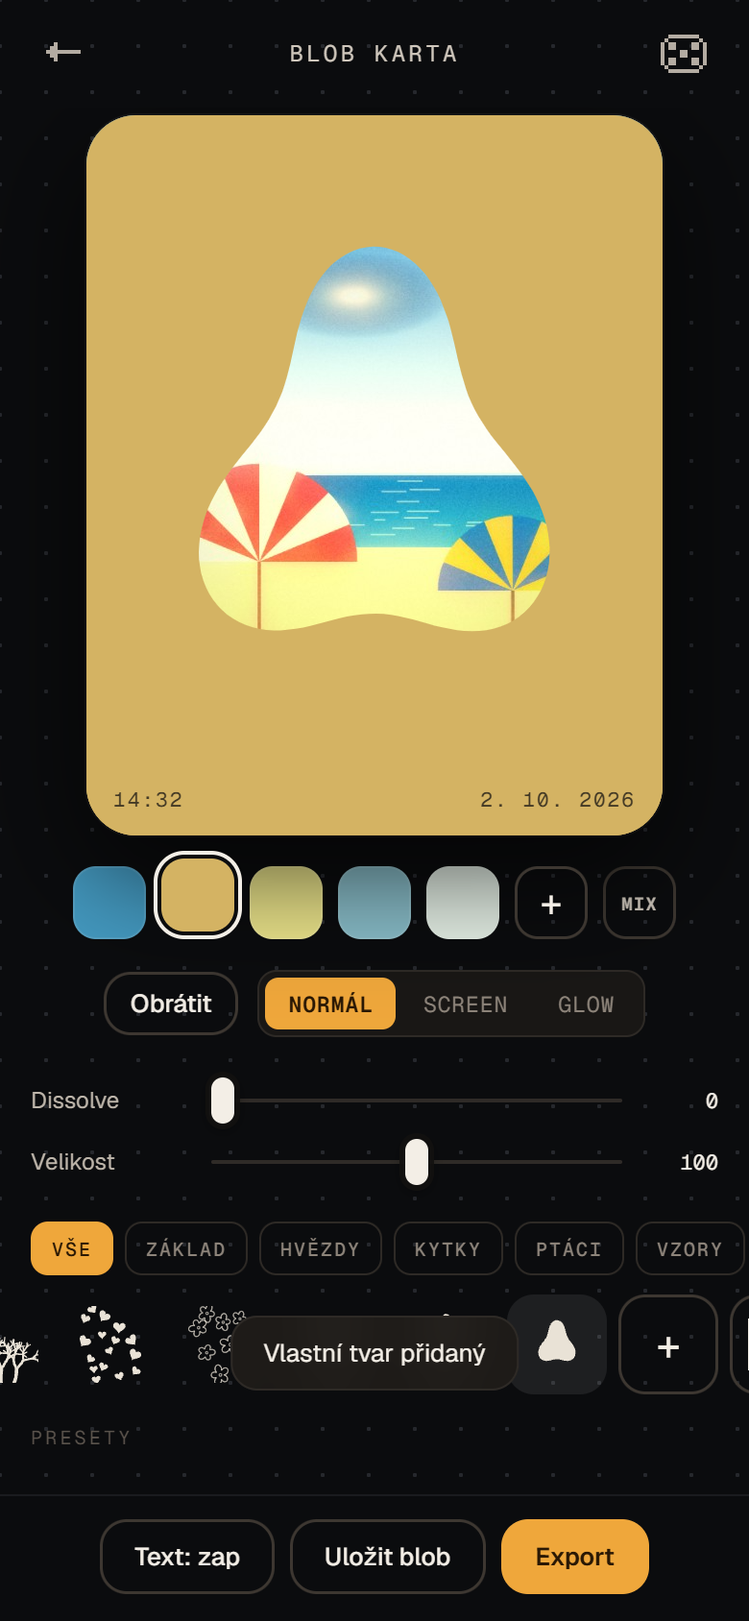
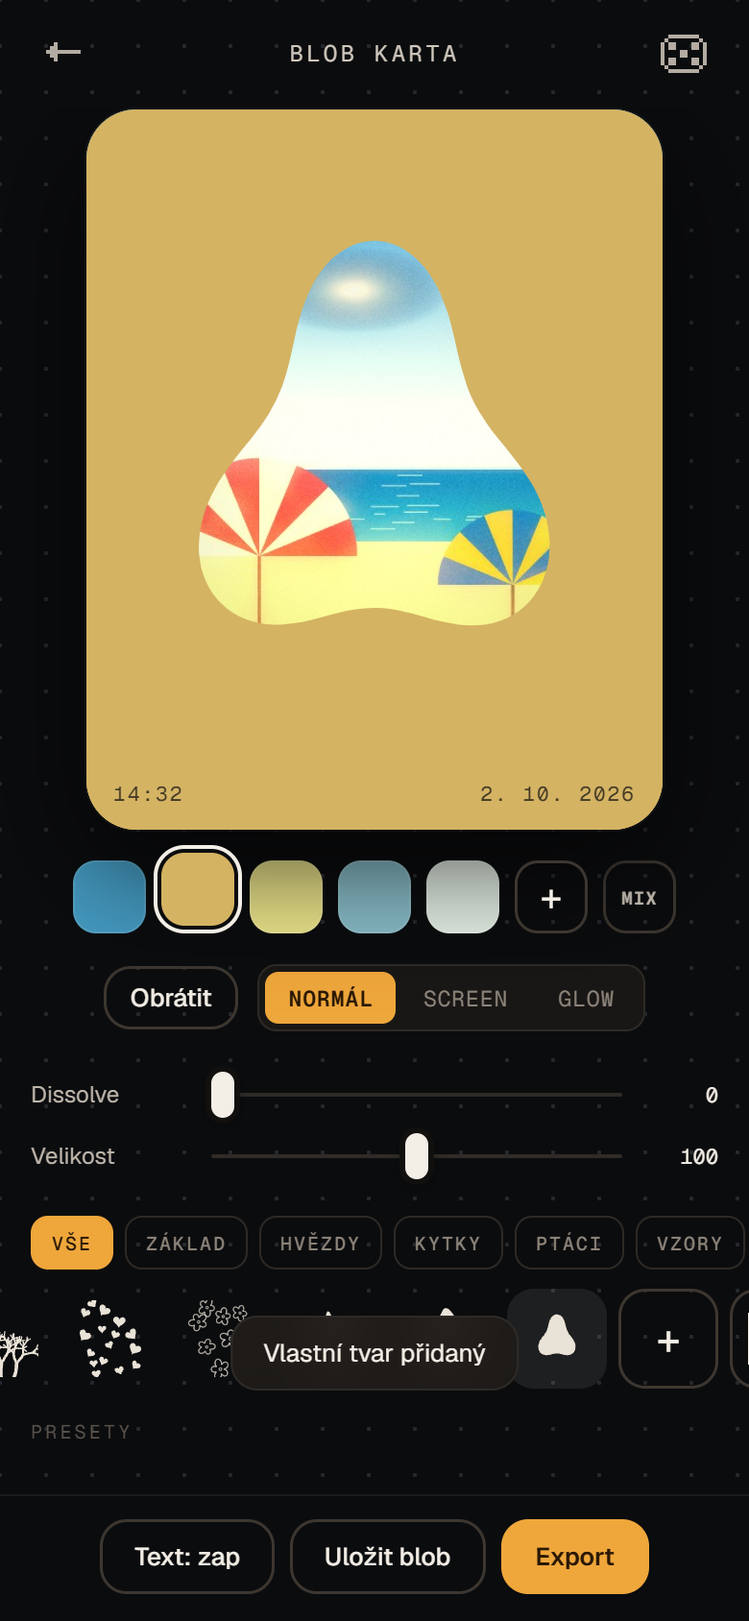
Blob: předělané vázy z 12, tulipány, kytice, orchidej, přehrávač, vykřičníky, špendlík (víc kreslené)

diff --git a/docs/preview/index.html b/docs/preview/index.html
@@ -3169,15 +3169,15 @@ async function shareRecipe(r) {
 const SHAPES = [{ k: 'splat', s: 3 }, { k: 'blob', n: 5, a: .2, s: 9 }, { k: 'star', s: 2 }, { k: 'sparkle', s: 4 }, { k: 'flower', s: 5 }, { k: 'stamp' }, { k: 'soft' },
   { k: 'stars', s: 11 }, { k: 'dots', s: 12 }, { k: 'flowers', s: 13 }, { k: 'sparkles', s: 14 }, { k: 'waves', s: 15 },
   { k: 'shoot', s: 21 }, { k: 'chain', s: 22 }, { k: 'beacons', s: 23 }, { k: 'stars3', s: 24 }, { k: 'snake', s: 25 }, { k: 'daisygrid', s: 26 }, { k: 'halfdaisy', s: 27 }, { k: 'outlineflowers', s: 28 }, { k: 'daisyfield', s: 29 }, { k: 'loops', s: 30 },
-  { k: 'flock', s: 41 }, { k: 'gulls', s: 42 }, { k: 'birds', s: 43 }, { k: 'birdcloud', s: 44 }, { k: 'swallows', s: 45 }, { k: 'wires', s: 46 }, { k: 'onebird', s: 47 },
+  { k: 'flock', s: 41 }, { k: 'gulls', s: 42 }, { k: 'birds', s: 43 }, { k: 'birdcloud', s: 44 }, { k: 'swallows', s: 45 }, { k: 'wires', s: 46 }, { k: 'pin', s: 47 },
   { k: 'orchid', s: 48 }, { k: 'stems', s: 49 }, { k: 'poppies', s: 50 }, { k: 'tulips', s: 51 }, { k: 'bouquet', s: 52 },
-  { k: 'vase', v: 'jar', f: 'balls', s: 53 }, { k: 'vase', v: 'bottle', f: 'balls2', s: 54 }, { k: 'vase', v: 'slim', f: 'balls3', s: 55 },
+  { k: 'vase', v: 'jar', f: 'balls', s: 53, sc: .62 }, { k: 'vase', v: 'bottle', f: 'balls2', s: 54, sc: .78 }, { k: 'vase', v: 'slim', f: 'balls3', s: 55, sc: .7 },
   { k: 'vase', v: 'slim', f: 'puff', s: 56 }, { k: 'vase', v: 'bottle', f: 'sprigs', s: 57 }, { k: 'vase', v: 'round', f: 'berries', s: 58 }, { k: 'vase', v: 'carafe', f: 'hydra', s: 59 }, { k: 'vase', v: 'slim', f: 'spike', s: 60 },
   { k: 'constellation', s: 61 }, { k: 'figures', s: 62 }, { k: 'player', s: 63 }, { k: 'bang', s: 64 }, { k: 'bolts', s: 65 },
   { k: 'bigstars', s: 31 }, { k: 'lattice', s: 32 }, { k: 'clouds', s: 33 }, { k: 'leaf', s: 34 }, { k: 'rays', s: 35 }, { k: 'blossoms', s: 36 }, { k: 'spiral', s: 37 }, { k: 'coral', s: 38 }, { k: 'hearts', s: 39 }, { k: 'blobstars', s: 40 },
   { k: 'blob', n: 7, a: .28, s: 1 }, { k: 'blob', n: 3, a: .3, s: 12 }];
 /* rozpracované tvary (Honza chce předělat) – v nabídce zatím schované */
-const WIP = new Set(['orchid', 'tulips', 'bouquet', 'onebird', 'player', 'bang', 'vase:balls', 'vase:balls2', 'vase:balls3']);
+const WIP = new Set([]);
 for (let i = SHAPES.length - 1; i >= 0; i--) { const sh = SHAPES[i]; if (WIP.has(sh.k) || WIP.has(sh.k + ':' + sh.f)) SHAPES.splice(i, 1); }
 const f2 = v => v.toFixed(2);
 function smoothClosed(pts, t = .18) { const N = pts.length; let d = `M${f2(pts[0][0])} ${f2(pts[0][1])}`;
@@ -3220,6 +3220,8 @@ function ink(pts, w, seed, o = {}) { const r = rng(seed * 7919 + 13), raw = crPt
     const wob = (Math.sin(d * fr[0] + ph[0]) * .7 + Math.sin(d * fr[1] + ph[1]) * .3) * jit, u = d / Lt, end = Math.min(1, Math.min(u, 1 - u) * Lt / (w * 3)), hw = w / 2 * (.82 + .3 * Math.sin(d * fr[2] + ph[2])) * (1 - tap + tap * Math.sqrt(Math.max(.05, end)));
     Lp.push([x + nx * (wob + hw), y + ny * (wob + hw)]); Rp.push([x + nx * (wob - hw), y + ny * (wob - hw)]); });
   const pt = q => `${f2(q[0])} ${f2(q[1])}`; return `M${Lp.map(pt).join('L')}L${Rp.reverse().map(pt).join('L')}Z`; }
+/* kreslený tvar: body polygonu se lehce rozhodí a zaoblí (cartoon, ne geometrie) */
+function wob(pts, seed, a = .6, t = .14) { const r = rng(seed * 53 + 1); return smoothClosed(pts.map(([x, y]) => [x + (r() - .5) * a, y + (r() - .5) * a]), t); }
 /* nepravidelné kolečko / skvrna od ruky */
 function wcirc(x, y, R, seed, a = .07) { const r = rng(seed * 31 + 7), p = [r() * 9, r() * 9], pts = []; for (let i = 0; i < 18; i++) { const t = i / 18 * Math.PI * 2, k = 1 + (Math.sin(t * 2 + p[0]) * .6 + Math.sin(t * 3 + p[1]) * .4) * a; pts.push([x + Math.cos(t) * R * k, y + Math.sin(t) * R * k * (1 - a * .5)]); } return smoothClosed(pts, .17); }
 const FIG_D = 'M3284 5101 c8 -12 -31 -44 -44 -36 -7 4 -10 1 -9 -6 1 -8 -6 -32 -15 -53 -10 -21 -14 -42 -9 -45 10 -8 10 -42 0 -59 -5 -7 -4 -34 2 -60 12 -51 9 -127 -8 -182 -6 -19 -11 -52 -11 -73 0 -57 -50 -127 -88 -124 -21 1 -32 17 -12 17 6 0 10 5 10 10 0 6 -7 10 -15 10 -24 0 -17 15 13 26 27 11 27 11 -10 11 -21 1 -38 -3 -38 -8 0 -5 -7 -9 -15 -9 -8 0 -36 -13 -61 -28 -28 -18 -55 -27 -72 -25 -82 10 -110 18 -136 40 -23 19 -37 23 -59 19 -16 -3 -33 -6 -37 -6 -5 0 -12 -15 -15 -32 -4 -18 -13 -37 -19 -41 -8 -6 -8 -10 1 -13 7 -3 29 -17 50 -32 30 -20 51 -26 96 -27 31 -1 57 2 57 5 0 4 6 7 13 8 6 0 38 4 70 8 49 6 62 4 85 -13 15 -11 37 -23 48 -27 11 -3 30 -23 42 -44 11 -20 29 -46 40 -58 11 -11 31 -39 45 -61 25 -40 26 -46 22 -156 -3 -63 -9 -127 -15 -142 -14 -38 -12 -81 5 -95 8 -7 12 -16 9 -21 -3 -5 2 -9 10 -9 17 0 46 26 47 43 0 7 2 31 3 55 2 23 8 48 14 54 17 17 15 83 -3 118 -9 18 -11 31 -5 35 5 3 8 23 5 43 -4 28 1 46 20 74 14 21 30 38 35 38 19 0 48 41 42 62 -4 18 -3 19 17 9 15 -8 21 -9 21 -1 0 6 5 8 10 5 6 -3 10 -3 10 2 0 4 12 22 26 38 22 25 25 26 20 8 -7 -22 0 -26 79 -38 17 -3 44 -7 62 -10 17 -3 34 -1 38 5 3 6 11 8 16 4 5 -3 31 -7 57 -9 26 -2 63 -7 82 -10 32 -6 37 -4 48 19 10 23 8 28 -25 55 -43 35 -97 51 -138 39 -16 -5 -51 -7 -77 -4 -28 3 -48 1 -48 -5 0 -5 -18 0 -40 11 -23 11 -59 20 -86 20 -35 0 -45 3 -41 14 3 8 -3 23 -14 34 -10 12 -19 25 -19 30 0 5 -7 15 -15 22 -8 7 -15 22 -15 34 0 12 -8 31 -18 42 -10 11 -19 26 -19 34 -1 8 -5 44 -9 79 -5 44 -4 62 3 58 7 -4 11 14 11 53 0 36 7 74 17 96 9 19 14 42 11 50 -3 9 -1 12 4 9 25 -15 -5 81 -34 110 -16 16 -30 20 -22 6z m-267 -681 c-19 -27 -27 -15 -14 20 9 24 13 27 20 15 5 -9 3 -23 -6 -35z m283 -89 c0 -13 -7 -18 -24 -18 -22 0 -23 1 -8 18 9 11 20 19 24 19 5 0 8 -8 8 -19z m-90 -76 c-7 -8 -17 -15 -22 -15 -5 0 -2 7 6 16 9 8 16 21 17 27 0 8 2 8 6 -1 3 -7 -1 -19 -7 -27z M1794 3800 c-9 -22 -20 -40 -25 -40 -5 0 -9 -9 -9 -20 0 -12 -9 -30 -20 -42 -29 -31 -26 -58 6 -58 14 0 23 4 19 10 -13 21 25 9 39 -12 13 -18 16 -19 16 -5 0 9 5 17 10 17 6 0 10 -9 10 -20 0 -11 -4 -20 -8 -20 -12 0 -32 -47 -32 -75 0 -30 23 -33 52 -6 11 11 26 17 34 14 8 -3 14 0 14 7 0 8 11 11 30 8 23 -3 30 -1 30 12 0 9 -5 21 -11 27 -18 18 -7 58 16 58 15 0 21 -7 22 -30 4 -54 -8 -109 -27 -134 -17 -19 -24 -22 -47 -13 l-28 9 1 -57 c1 -50 -1 -57 -16 -53 -22 6 -34 -26 -25 -66 3 -17 2 -32 -4 -36 -6 -3 -11 -23 -11 -43 0 -67 -9 -85 -40 -78 -22 4 -29 1 -33 -14 -3 -11 0 -23 5 -27 18 -10 78 -13 78 -3 0 6 10 10 22 10 20 0 20 -1 3 -20 -9 -10 -20 -19 -24 -18 -23 3 -32 -4 -26 -21 7 -22 -13 -40 -25 -21 -4 7 -10 -5 -14 -28 -5 -33 -9 -39 -25 -35 -10 3 -22 0 -25 -6 -13 -21 -36 -12 -36 14 0 27 -23 58 -52 68 -13 5 -20 -5 -33 -43 -9 -27 -14 -54 -10 -59 6 -10 -13 -51 -28 -62 -5 -3 -7 -10 -5 -15 1 -5 -7 -13 -19 -19 -13 -5 -23 -13 -23 -17 0 -4 -7 -5 -16 -1 -9 3 -20 0 -25 -8 -14 -22 -11 -28 12 -22 12 4 25 0 30 -8 14 -22 10 -49 -6 -49 -8 0 -15 -7 -15 -15 0 -8 -4 -15 -10 -15 -5 0 -10 5 -10 10 0 6 -9 2 -21 -9 -17 -15 -19 -23 -10 -39 8 -16 6 -27 -15 -57 -14 -21 -23 -43 -20 -51 3 -7 -1 -18 -9 -24 -11 -9 -17 -5 -30 17 -12 21 -15 23 -12 7 3 -13 -3 -25 -14 -33 -24 -14 -24 -31 -1 -31 10 0 21 -3 25 -6 8 -8 -18 -34 -35 -34 -10 0 -9 -3 2 -10 10 -6 11 -10 3 -10 -7 0 -13 -8 -13 -17 -1 -17 -1 -17 -11 0 -7 12 -7 33 -1 62 8 37 7 44 -7 48 -24 6 -43 -19 -39 -51 2 -17 -2 -26 -9 -25 -14 3 -27 -18 -37 -59 -5 -23 -3 -27 11 -22 14 4 13 3 -2 -7 -11 -7 -31 -25 -45 -39 -14 -15 -36 -32 -49 -39 -14 -8 -19 -16 -13 -20 6 -3 11 -30 10 -59 0 -52 -1 -53 -39 -70 -44 -19 -48 -31 -19 -57 11 -10 20 -23 20 -30 0 -7 9 -20 20 -30 21 -19 27 -45 11 -45 -6 0 -13 5 -17 12 -5 8 -10 6 -16 -8 -6 -13 -7 -10 -3 14 3 21 0 32 -8 32 -21 0 -32 -14 -35 -45 -4 -37 -10 -44 -22 -25 -6 9 -6 16 0 18 21 7 9 32 -15 32 -22 0 -24 -2 -15 -25 12 -31 -11 -72 -47 -86 -18 -7 -23 -16 -23 -44 0 -29 -3 -36 -17 -33 -10 2 -27 -4 -37 -14 -22 -20 -36 -23 -36 -8 0 17 -25 11 -43 -11 -10 -11 -23 -19 -30 -16 -22 7 -60 -40 -60 -75 0 -49 19 -138 31 -150 7 -7 7 -16 -1 -29 -9 -14 -7 -22 8 -38 15 -18 16 -25 7 -46 -13 -28 -5 -88 11 -78 6 4 8 -4 3 -21 -6 -23 -2 -28 21 -36 16 -6 36 -14 45 -20 48 -27 77 38 52 114 -9 28 -20 56 -24 61 -4 6 -10 30 -13 54 -3 24 -11 47 -18 51 -15 10 -3 29 27 40 22 9 23 12 12 31 -12 18 -10 23 15 43 15 12 27 30 27 39 0 10 4 15 10 12 6 -3 10 5 10 19 0 22 5 26 45 32 39 5 45 9 43 28 -2 17 2 21 23 18 30 -3 43 10 53 51 7 28 -2 35 -21 16 -8 -8 -13 -8 -18 1 -9 14 -6 17 20 22 11 1 22 5 25 9 3 3 21 15 42 27 33 20 36 27 40 72 3 43 0 53 -21 69 l-24 20 39 7 c54 10 166 84 127 84 -5 0 -6 22 -5 50 3 38 0 51 -12 56 -12 4 -13 11 -6 24 11 21 60 40 105 40 l33 0 -4 79 c-3 86 10 131 38 131 10 0 17 -3 16 -7 -1 -5 1 -18 6 -30 5 -16 1 -31 -15 -52 -15 -21 -19 -33 -12 -46 9 -15 13 -14 32 14 12 17 28 31 36 31 7 0 15 4 17 9 2 5 20 6 42 2 l38 -6 -37 -33 c-20 -19 -39 -32 -41 -29 -3 3 -16 -6 -30 -20 -19 -19 -22 -28 -14 -38 6 -7 10 -17 9 -21 -5 -30 1 -37 19 -21 25 23 49 23 27 0 -9 -9 -21 -27 -26 -40 -5 -13 -17 -23 -27 -23 -16 0 -21 -11 -28 -62 -4 -35 -8 -67 -8 -73 -1 -5 8 -10 19 -10 16 0 20 -6 18 -30 -1 -17 1 -23 4 -15 3 8 26 35 49 60 24 25 39 47 34 48 -16 6 -12 62 4 62 21 0 27 27 11 57 -13 24 -12 29 2 46 14 15 15 21 4 38 -9 16 -9 24 0 35 6 7 16 11 22 7 7 -4 8 11 3 45 l-7 52 32 0 c28 0 31 3 25 24 -4 16 1 29 15 42 35 31 42 52 24 70 -15 15 -14 18 7 32 31 22 38 32 38 65 0 20 14 41 50 76 44 43 50 53 50 90 0 47 14 81 33 81 7 0 13 15 14 33 5 75 13 97 36 97 12 0 40 12 61 26 28 20 37 31 33 46 -4 14 0 22 14 25 10 3 19 9 19 13 0 4 9 10 21 13 17 5 19 9 9 26 -7 14 -8 27 -2 38 9 15 10 14 16 -3 3 -10 6 -40 7 -65 l2 -47 46 3 c25 2 51 4 56 5 6 1 17 0 25 -2 8 -2 16 1 17 6 3 19 28 25 34 8 6 -14 8 -13 17 8 9 21 11 22 11 5 1 -13 13 -25 34 -33 17 -8 43 -19 57 -27 14 -7 37 -11 52 -8 15 3 41 -2 58 -11 24 -12 37 -13 52 -5 16 9 24 6 42 -10 26 -24 94 -29 127 -8 18 10 23 9 40 -16 12 -15 24 -25 28 -22 4 2 24 5 44 7 21 1 37 6 37 10 0 4 5 8 11 8 5 0 7 -6 3 -12 -6 -10 -4 -10 7 0 23 22 64 14 92 -18 29 -32 73 -40 95 -18 7 7 12 8 12 2 0 -5 4 -2 10 6 7 12 11 12 28 -3 11 -10 44 -22 75 -27 31 -5 65 -14 77 -20 11 -6 20 -8 20 -5 0 3 9 1 19 -4 13 -8 30 -7 57 3 33 11 42 11 65 -3 25 -14 31 -14 61 0 18 9 49 15 68 13 70 -8 127 -13 205 -19 44 -4 85 -11 90 -15 6 -5 36 -7 67 -4 41 2 59 0 68 -11 7 -8 16 -12 21 -9 5 3 15 2 22 -3 6 -4 18 -8 26 -10 8 -1 28 -12 44 -24 16 -12 27 -17 24 -12 -4 6 13 16 38 23 25 7 45 16 45 21 0 5 6 6 14 3 7 -3 21 2 29 11 15 14 18 14 37 -5 15 -15 18 -25 12 -33 -16 -20 -18 -53 -3 -70 15 -19 41 -23 41 -6 0 6 6 9 13 6 10 -4 14 8 14 44 1 35 -2 49 -12 49 -8 0 -11 7 -8 19 3 11 -2 21 -12 25 -21 8 -35 0 -36 -22 0 -14 -2 -13 -9 3 -4 11 -4 24 1 30 5 5 9 18 9 28 0 13 5 17 16 13 8 -3 12 -2 9 4 -3 6 2 10 11 10 10 0 14 3 11 7 -13 12 23 41 45 35 11 -3 24 1 28 8 15 24 37 20 32 -6 -4 -22 -14 -29 -36 -25 -5 1 -6 -10 -4 -24 3 -14 1 -25 -3 -25 -5 0 -9 -5 -9 -11 0 -6 8 -8 19 -4 14 4 21 0 24 -12 3 -11 5 -8 6 10 1 20 -3 26 -11 21 -10 -5 -10 -4 -1 6 16 17 33 4 33 -27 0 -16 -7 -27 -20 -30 -17 -5 -38 -46 -44 -89 -1 -9 -7 -19 -13 -22 -13 -9 -26 -49 -27 -82 -1 -17 5 -27 19 -30 15 -4 21 -17 25 -50 5 -42 7 -45 33 -42 21 2 27 -1 27 -18 0 -11 4 -20 9 -20 5 0 12 -13 16 -28 3 -15 17 -40 30 -54 13 -14 21 -29 17 -34 -4 -4 -2 -4 4 -1 18 11 39 -20 25 -37 -9 -10 -6 -17 13 -30 14 -9 30 -16 36 -16 6 0 9 -4 5 -9 -3 -5 -2 -12 2 -14 5 -3 8 -26 7 -51 0 -25 2 -44 4 -41 3 3 16 -18 30 -46 14 -27 28 -46 31 -41 9 13 61 24 61 13 0 -12 -28 -41 -40 -41 -12 0 -51 -66 -48 -81 2 -8 8 -19 15 -26 13 -15 16 -145 3 -153 -13 -8 -15 -133 -2 -155 10 -18 11 -18 12 -2 0 9 5 17 10 17 11 0 14 -13 10 -44 -1 -11 3 -15 9 -12 6 4 11 2 11 -3 0 -6 -6 -11 -12 -12 -7 0 -4 -4 7 -9 11 -4 32 -6 47 -3 24 5 28 1 36 -28 5 -22 15 -35 28 -38 25 -4 34 -19 34 -56 1 -32 25 -74 32 -55 5 17 38 0 38 -20 0 -10 8 -26 17 -36 27 -27 44 -65 34 -78 -11 -14 -10 -46 1 -46 5 0 7 -4 4 -9 -3 -5 1 -11 8 -14 8 -3 17 -1 20 6 2 7 5 -3 5 -20 1 -23 6 -33 17 -33 12 0 15 -8 11 -35 -3 -19 -1 -35 5 -35 5 0 7 -4 3 -9 -3 -6 2 -14 10 -19 9 -4 17 -18 18 -30 1 -12 5 -22 9 -22 4 0 7 -3 7 -7 -1 -5 0 -12 1 -18 6 -33 0 -109 -10 -115 -7 -4 -10 -13 -6 -18 8 -13 -22 -30 -46 -27 -10 2 -18 -3 -18 -11 0 -8 -6 -14 -14 -14 -7 0 -19 -7 -26 -15 -7 -8 -16 -12 -21 -9 -5 3 -10 -1 -10 -8 -5 -45 -7 -56 -16 -73 -14 -25 -4 -58 15 -50 10 4 24 -4 37 -21 l22 -27 34 18 c19 10 44 23 56 29 13 6 23 16 23 22 0 7 19 21 43 32 23 11 54 31 68 44 14 13 31 22 37 20 6 -2 16 22 23 54 11 50 11 60 -4 86 -9 16 -17 39 -17 51 0 18 -2 19 -10 7 -8 -12 -10 -11 -10 8 0 12 -4 22 -9 22 -12 0 -35 59 -37 95 -1 17 -2 39 -3 50 0 11 -11 31 -24 45 -13 14 -22 31 -19 38 2 6 -3 15 -12 18 -9 3 -16 17 -16 31 0 13 -4 32 -9 42 -6 10 -11 29 -13 44 -2 15 -14 38 -26 52 -12 14 -22 28 -22 31 0 12 -38 53 -44 47 -3 -3 -7 -1 -7 5 -1 7 -2 20 -3 30 -3 29 -17 62 -26 62 -5 0 -11 13 -15 29 -4 17 -16 33 -32 40 -14 6 -23 14 -20 17 3 3 -5 26 -19 51 -17 34 -21 50 -14 63 13 25 13 30 -5 30 -9 0 -14 9 -14 23 1 12 -2 38 -6 57 -4 19 -10 54 -13 78 -4 23 -10 41 -14 40 -4 -2 -13 6 -21 16 -12 17 -14 17 -20 2 -4 -9 -11 -16 -16 -16 -7 0 -7 9 -2 22 4 13 6 30 3 38 -3 8 4 4 16 -10 18 -22 22 -23 36 -10 24 25 25 65 0 74 -10 4 -13 2 -8 -6 5 -8 2 -9 -10 -5 -10 4 -20 7 -22 7 -3 0 -2 5 2 12 5 8 2 9 -11 4 -14 -5 -15 -3 -8 6 6 7 12 32 15 55 3 35 1 40 -13 33 -10 -6 -20 -5 -27 2 -15 15 -16 32 -2 23 6 -3 10 3 10 14 0 12 5 21 10 21 6 0 10 -4 10 -8 0 -5 14 -7 30 -4 34 5 62 -12 53 -34 -3 -8 0 -14 7 -14 6 0 9 -4 6 -9 -3 -5 1 -12 10 -15 8 -3 12 -10 9 -16 -4 -6 -11 -8 -16 -5 -12 8 -11 0 5 -40 12 -27 19 -33 33 -28 22 9 52 43 53 61 0 8 8 12 18 10 22 -5 17 -45 -9 -74 -20 -21 -27 -94 -9 -94 6 0 10 -14 10 -31 0 -28 3 -31 25 -27 23 5 26 1 31 -33 6 -35 10 -39 35 -39 24 0 29 -4 29 -24 0 -13 -5 -26 -12 -28 -13 -5 -3 -59 11 -55 5 1 23 -16 40 -38 17 -22 35 -46 41 -52 6 -7 10 -15 10 -19 -1 -3 7 -13 17 -22 10 -9 20 -26 21 -37 2 -11 12 -25 22 -32 20 -14 80 -99 80 -113 0 -5 9 -11 19 -15 11 -3 23 -14 26 -23 15 -44 89 -103 98 -79 3 7 6 5 6 -5 1 -9 7 -23 14 -30 18 -18 28 -48 17 -48 -6 0 -10 -5 -10 -10 0 -6 10 -8 23 -5 29 8 59 -21 38 -35 -10 -6 -9 -9 6 -14 18 -6 19 -15 17 -112 -3 -113 -10 -148 -26 -138 -6 4 -8 -1 -4 -13 8 -26 -2 -53 -20 -53 -17 0 1 -56 22 -64 8 -3 14 -12 14 -20 0 -21 50 -5 81 26 14 14 31 27 39 30 7 2 14 13 15 24 1 10 9 35 17 55 9 20 19 46 23 58 5 16 12 21 27 18 15 -4 17 -3 7 9 -6 7 -9 21 -5 29 3 8 1 15 -5 15 -6 0 -9 6 -6 13 3 8 -8 25 -24 38 -35 29 -36 35 -6 43 23 5 31 36 14 52 -4 4 -7 15 -7 25 0 10 -9 23 -20 29 -10 6 -17 16 -14 24 3 9 -5 15 -25 19 -18 4 -31 13 -31 22 0 8 -4 15 -9 15 -5 0 -34 25 -66 55 -31 30 -60 55 -66 55 -5 0 -23 28 -40 63 -17 34 -38 69 -46 77 -8 8 -21 24 -29 35 -9 11 -13 14 -9 8 4 -9 -1 -13 -14 -13 -20 0 -25 9 -22 36 0 5 -7 19 -18 30 -10 11 -24 37 -30 57 -7 20 -18 37 -25 37 -8 0 -12 10 -10 25 1 15 -5 33 -16 43 -10 9 -20 24 -22 31 -2 8 -12 24 -23 35 -11 12 -29 39 -40 61 -11 22 -23 42 -28 43 -4 2 -5 8 -1 13 3 5 -1 9 -8 9 -7 0 -19 15 -27 33 -7 17 -20 48 -29 67 -9 19 -15 39 -14 44 2 5 -4 6 -13 3 -10 -4 -15 0 -16 13 -1 11 -2 26 -3 33 -1 16 -75 91 -83 83 -3 -3 -16 5 -28 18 -12 13 -37 27 -55 31 -34 8 -114 81 -125 115 -4 11 -10 18 -15 15 -4 -3 -10 2 -14 10 -3 8 -12 12 -21 9 -10 -4 -15 0 -15 11 0 9 -4 13 -10 10 -5 -3 -10 1 -10 9 0 26 -23 66 -38 66 -11 0 -13 8 -9 29 5 21 -2 44 -24 84 -21 40 -28 63 -23 81 3 14 10 26 14 26 4 0 11 11 14 25 4 14 11 23 16 20 6 -3 10 1 10 10 0 14 7 16 41 10 64 -11 119 -12 119 -3 0 5 28 7 62 5 35 -2 74 0 87 5 17 6 29 4 40 -5 24 -21 108 -28 122 -11 13 15 49 9 61 -9 4 -8 15 -7 34 2 15 7 30 8 33 3 7 -11 41 -12 41 -1 0 5 16 11 36 15 31 6 39 3 59 -20 12 -14 27 -26 34 -26 6 0 11 -4 11 -9 0 -8 114 -9 130 -1 3 1 10 3 15 4 6 0 20 8 33 16 30 20 31 79 1 87 -16 4 -17 8 -7 14 9 6 2 9 -20 9 -18 0 -31 4 -28 8 3 5 -1 9 -9 9 -8 0 -12 -4 -9 -9 3 -4 0 -8 -5 -8 -6 0 -11 7 -11 16 0 13 -8 14 -47 9 -27 -3 -55 -7 -63 -7 -8 0 -25 -10 -37 -21 -22 -20 -23 -20 -43 -2 -11 10 -20 15 -20 10 0 -4 -6 -2 -14 4 -11 9 -25 10 -50 2 -20 -5 -36 -7 -36 -4 0 3 -6 0 -14 -6 -7 -6 -23 -10 -34 -8 -25 4 -42 17 -22 17 11 0 11 3 2 12 -6 6 -39 11 -79 10 -41 -1 -70 4 -74 10 -6 9 -12 8 -24 -2 -13 -11 -20 -11 -40 0 -14 8 -35 10 -52 5 -25 -6 -144 -15 -213 -16 -14 0 -40 -7 -58 -15 -31 -14 -93 -12 -78 3 12 13 -18 33 -48 33 -40 0 -86 21 -86 38 0 17 -26 43 -34 35 -3 -3 -8 2 -12 11 -7 19 -64 78 -64 68 0 -4 -15 9 -33 30 -44 47 -89 65 -149 58 -26 -3 -50 -9 -54 -13 -14 -14 -24 -111 -12 -118 7 -4 15 -6 20 -3 4 2 12 -4 17 -15 14 -26 14 -29 -6 -34 -11 -3 -6 -5 11 -6 16 0 35 -9 43 -18 10 -14 13 -14 11 -3 -2 8 4 15 12 15 22 0 24 -31 3 -54 -34 -37 -43 -50 -43 -61 0 -6 -4 -8 -10 -5 -5 3 -10 1 -10 -4 0 -18 -48 -12 -59 7 -10 16 -11 16 -16 -3 -5 -17 -14 -20 -57 -18 -28 2 -54 7 -57 12 -4 5 -20 11 -36 14 -17 2 -38 8 -49 12 -11 5 -26 4 -37 -3 -12 -8 -27 -9 -42 -3 -15 6 -31 5 -46 -4 -23 -12 -41 -10 -108 10 -13 4 -23 11 -23 15 0 4 -17 4 -37 -1 -25 -5 -40 -4 -44 3 -10 16 -34 20 -104 19 -78 -2 -107 -5 -122 -14 -7 -4 -23 -2 -35 4 -13 7 -37 14 -55 14 -18 1 -40 8 -50 16 -11 9 -14 10 -9 2 4 -7 2 -13 -4 -13 -6 0 -15 11 -21 24 -8 18 -19 23 -43 23 -17 -1 -38 3 -46 8 -21 14 -100 34 -132 35 -15 0 -43 -9 -63 -20 -43 -24 -49 -25 -82 -3 -29 19 -53 23 -165 26 -57 1 -78 6 -78 15 0 7 -4 11 -9 7 -5 -3 -12 -1 -16 5 -3 5 -30 10 -59 10 -28 0 -57 5 -64 12 -7 7 -12 8 -12 4 0 -5 -7 -2 -16 5 -15 13 -86 25 -179 32 -57 4 -94 24 -88 48 6 23 -15 25 -41 6 -17 -12 -17 -14 -2 -20 23 -9 20 -20 -11 -35 -34 -15 -47 -3 -39 36 5 18 17 34 34 42 15 6 28 10 29 8 0 -1 18 14 38 35 29 30 35 43 29 60 -4 12 -8 45 -9 73 -2 29 -7 67 -13 85 -6 19 -12 45 -14 59 -2 14 -7 25 -13 25 -5 1 -20 6 -31 13 -12 6 -24 8 -28 5 -3 -3 -6 -1 -6 5 0 8 -15 10 -45 8 -24 -3 -47 0 -50 5 -15 23 -46 8 -61 -31z m106 -216 c0 -8 -6 -14 -14 -14 -16 0 -29 41 -20 65 5 13 9 11 20 -11 8 -14 14 -33 14 -40z m126 -262 c17 -11 13 -44 -3 -37 -8 3 -17 5 -19 5 -2 0 -4 9 -4 20 0 21 8 25 26 12z m-54 -27 c-2 -11 -3 -29 -3 -40 0 -19 -1 -19 -13 -2 -20 26 -28 21 -21 -13 5 -23 3 -30 -9 -30 -9 0 -16 -6 -16 -12 -1 -26 -40 35 -40 61 0 21 8 31 33 43 44 22 73 19 69 -7z m2296 -78 c-11 -9 -14 -22 -11 -40 7 -37 -16 -117 -33 -117 -8 0 -14 -5 -14 -10 0 -7 -7 -7 -21 1 -17 9 -20 17 -15 41 3 16 13 36 21 44 8 9 15 24 15 35 0 30 24 50 70 58 3 0 -2 -5 -12 -12z m75 -31 c3 -8 -4 -25 -15 -38 l-21 -23 6 25 c4 14 7 31 7 38 0 17 17 15 23 -2z m-2663 -211 c0 -14 -4 -25 -10 -25 -11 0 -14 33 -3 43 11 11 13 8 13 -18z m2865 -25 c-3 -5 -1 -10 5 -10 20 0 1 -18 -25 -22 -29 -6 -35 15 -7 31 22 13 35 14 27 1z m-2805 -49 c0 -35 -28 -50 -47 -25 -11 16 -13 16 -19 1 -9 -25 -24 -20 -24 7 0 18 4 23 18 19 10 -2 24 3 31 11 21 26 41 19 41 -13z m-58 -78 c2 -10 2 -28 0 -41 -4 -22 -5 -22 -23 -6 -18 16 -19 16 -19 -22 0 -44 -14 -66 -37 -57 -22 9 -32 -15 -28 -66 3 -36 -1 -51 -17 -68 -28 -30 -35 -29 -30 6 2 18 -5 46 -22 77 -26 48 -27 65 -4 47 7 -6 23 -14 35 -17 18 -6 22 -4 17 8 -3 9 3 20 14 27 11 7 19 17 17 23 -15 52 -15 68 0 62 9 -3 18 0 21 9 4 8 17 15 30 15 13 0 24 5 24 10 0 17 18 11 22 -7z m2818 -10 c-1 -19 -16 -31 -29 -24 -7 5 -10 14 -7 20 8 12 36 15 36 4z m127 -145 c-3 -8 -6 -5 -6 6 -1 11 2 17 5 13 3 -3 4 -12 1 -19z m-2987 -44 c0 -22 -2 -24 -14 -14 -8 6 -12 18 -9 26 9 23 23 16 23 -12z m2990 -5 c0 -25 -16 -24 -30 0 -14 27 -13 30 10 24 11 -3 20 -14 20 -24z m80 -24 c0 -8 -4 -15 -10 -15 -5 0 -7 7 -4 15 4 8 8 15 10 15 2 0 4 -7 4 -15z m-20 -35 c0 -5 -5 -10 -11 -10 -5 0 -7 5 -4 10 3 6 8 10 11 10 2 0 4 -4 4 -10z m40 -80 c0 -13 -7 -20 -20 -20 -11 0 -20 5 -20 10 0 6 5 10 11 10 5 0 7 5 4 10 -3 6 1 10 9 10 9 0 16 -9 16 -20z m-3480 -177 c0 -10 -4 -24 -9 -31 -7 -11 -9 -11 -14 2 -3 8 -2 18 4 21 5 4 7 11 4 16 -4 5 -1 9 4 9 6 0 11 -8 11 -17z m18 -64 c-2 -6 -8 -10 -13 -10 -5 0 -11 4 -13 10 -2 6 4 11 13 11 9 0 15 -5 13 -11z m272 -13 c0 -20 -26 -40 -35 -26 -10 16 2 40 20 40 8 0 15 -6 15 -14z m3580 -88 c0 -4 -4 -8 -9 -8 -6 0 -12 4 -15 8 -3 5 1 9 9 9 8 0 15 -4 15 -9z m-348 -130 c-7 -7 -12 -8 -12 -2 0 14 12 26 19 19 2 -3 -1 -11 -7 -17z m38 1 c0 -6 -4 -7 -10 -4 -5 3 -10 11 -10 16 0 6 5 7 10 4 6 -3 10 -11 10 -16z m30 -69 c0 -5 -4 -10 -9 -10 -6 0 -13 5 -16 10 -3 6 1 10 9 10 9 0 16 -4 16 -10z m-3846 -125 c-4 -8 -8 -15 -10 -15 -2 0 -4 7 -4 15 0 8 4 15 10 15 5 0 7 -7 4 -15z M1738 3600 c-15 -17 -15 -19 2 -35 17 -16 19 -15 35 9 28 42 -3 63 -37 26z M1763 3508 c-8 -14 -5 -47 6 -63 8 -11 -34 -57 -43 -47 -3 3 -15 -3 -26 -13 -13 -12 -19 -28 -17 -51 1 -19 5 -34 10 -34 4 0 24 18 46 40 21 22 46 40 56 40 17 0 17 1 2 67 -2 7 -6 15 -10 19 -4 4 -4 18 -1 30 7 25 -9 33 -23 12z M1665 3449 c-16 -11 -36 -17 -44 -14 -8 3 -31 -10 -53 -32 -21 -20 -38 -31 -38 -24 0 9 -13 11 -52 6 -29 -3 -70 -7 -90 -9 -21 -2 -43 -7 -50 -13 -15 -10 -28 -11 -44 -1 -5 4 -21 0 -35 -7 -46 -27 -51 -28 -60 -14 -7 11 -9 11 -9 -2 0 -20 -31 -34 -40 -19 -6 10 -37 20 -75 23 -14 1 -20 -4 -20 -18 0 -15 -6 -19 -22 -17 -12 2 -32 -2 -44 -8 -17 -10 -23 -9 -30 1 -6 10 -13 10 -33 1 -15 -7 -28 -8 -31 -2 -3 5 -18 7 -33 5 -15 -3 -60 -7 -101 -9 -57 -3 -78 -8 -88 -22 -17 -23 -17 -59 1 -73 22 -19 84 -25 101 -11 12 10 15 10 15 -4 0 -9 7 -16 15 -16 8 0 15 8 15 18 0 9 4 13 8 7 9 -13 35 -19 28 -6 -3 5 9 11 27 13 17 3 40 8 50 13 12 5 17 3 17 -8 0 -9 4 -18 8 -21 13 -8 85 16 107 35 24 22 237 47 243 30 6 -17 30 -13 52 9 21 21 74 27 85 10 4 -6 15 0 27 15 25 32 42 32 54 0 8 -23 11 -24 34 -12 16 8 26 23 28 39 2 18 25 49 63 87 61 60 68 83 14 50z M1826 3441 c-3 -5 3 -11 14 -14 13 -3 20 0 20 9 0 15 -26 19 -34 5z M1776 3306 c3 -9 11 -16 16 -16 13 0 5 23 -10 28 -7 2 -10 -2 -6 -12z M1646 3294 c-7 -18 0 -34 15 -34 12 0 12 37 0 44 -5 3 -12 -1 -15 -10z M1729 3286 c-6 -31 -1 -51 14 -54 9 -2 17 1 17 7 0 6 -4 11 -10 11 -5 0 -7 6 -4 14 3 8 1 17 -5 21 -6 3 -11 4 -12 1z M1198 3233 c7 -3 16 -2 19 1 4 3 -2 6 -13 5 -11 0 -14 -3 -6 -6z M1668 3180 c3 -21 0 -30 -9 -30 -11 0 -11 -2 1 -10 13 -8 11 -11 -7 -16 -39 -11 -25 -21 19 -15 52 7 59 27 27 71 -29 38 -37 38 -31 0z M5171 3194 c0 -11 3 -14 6 -6 3 7 2 16 -1 19 -3 4 -6 -2 -5 -13z M4870 2410 c-13 -8 -12 -10 3 -10 9 0 17 5 17 10 0 12 -1 12 -20 0z M1353 2326 c4 -9 1 -13 -6 -11 -17 7 -41 -11 -33 -23 7 -11 55 -2 56 11 1 30 -1 37 -11 37 -6 0 -9 -7 -6 -14z M1353 2218 c2 -7 11 -11 18 -9 8 2 24 3 37 3 12 -1 22 3 22 8 0 6 -18 10 -41 10 -28 0 -39 -4 -36 -12z M1430 2139 c0 -11 -4 -17 -10 -14 -5 3 -10 1 -10 -5 0 -7 -7 -10 -15 -6 -10 3 -15 -1 -15 -13 0 -10 -7 -22 -16 -25 -12 -4 -15 -2 -10 9 7 20 -4 19 -20 -2 -19 -26 -17 -33 11 -33 30 0 32 -19 5 -50 -11 -13 -20 -27 -20 -32 0 -4 -7 -8 -15 -8 -8 0 -15 -4 -15 -10 0 -5 11 -10 25 -10 32 0 34 -27 3 -32 -14 -2 -29 -16 -38 -34 -9 -17 -21 -29 -28 -26 -7 2 -10 -2 -6 -12 3 -8 -3 -22 -15 -32 -15 -13 -17 -22 -10 -35 5 -10 5 -27 1 -39 -7 -19 -9 -18 -25 14 -9 20 -21 36 -27 36 -12 0 -9 -22 4 -31 4 -4 -1 -16 -12 -27 -11 -11 -18 -23 -15 -26 4 -3 -1 -6 -10 -6 -14 0 -15 -5 -7 -26 12 -32 8 -38 -41 -70 -21 -13 -39 -30 -39 -38 0 -7 -9 -25 -21 -39 -17 -23 -18 -30 -8 -49 7 -13 12 -35 10 -50 -1 -16 2 -28 8 -28 6 0 11 -6 11 -14 0 -8 11 -24 25 -37 13 -13 25 -28 25 -34 0 -5 14 -21 30 -34 17 -13 30 -29 30 -36 0 -15 65 -40 80 -30 7 4 6 13 -1 27 -6 12 -13 36 -14 54 -5 46 -15 74 -37 105 -16 21 -18 31 -9 47 6 11 11 34 11 50 0 16 9 40 19 54 12 15 16 29 12 37 -10 16 14 67 44 96 12 11 25 34 30 50 4 17 10 24 12 18 8 -22 25 -14 18 7 -5 15 2 27 24 46 18 15 31 35 31 49 0 12 9 29 21 36 l21 14 -21 27 c-12 14 -21 30 -21 34 0 4 7 -1 15 -12 11 -15 15 -16 16 -4 1 8 1 18 0 23 0 4 3 7 8 7 5 0 8 11 7 25 0 14 -7 25 -13 25 -8 0 -13 13 -13 31 0 26 3 31 20 26 11 -3 20 -1 20 4 0 5 -4 9 -9 9 -5 0 -7 16 -4 35 3 19 2 35 -1 35 -3 0 -6 -9 -6 -21z m-305 -589 c-3 -5 -11 -10 -16 -10 -6 0 -7 5 -4 10 3 6 11 10 16 10 6 0 7 -4 4 -10z m-15 -30 c0 -5 -4 -10 -10 -10 -5 0 -10 5 -10 10 0 6 5 10 10 10 6 0 10 -4 10 -10z m-40 -44 c0 -3 -4 -8 -10 -11 -5 -3 -10 -1 -10 4 0 6 5 11 10 11 6 0 10 -2 10 -4z';
@@ -3234,16 +3236,16 @@ const boltPath = (cx, cy, L, rot) => pathT(['M', -.14, -.5, 'L', .22, -.5, 'L', 
 const tulipPath = (cx, cy, s, rot) => pathT(['M', -.5, -.15, 'Q', -.6, .55, 0, .62, 'Q', .6, .55, .5, -.15, 'L', .33, -.62, 'L', .17, -.2, 'L', 0, -.72, 'L', -.17, -.2, 'L', -.33, -.62, 'Z'], cx, cy, s, rot);
 const VASES = { jar: [[0, 0], [.42, 0], [.5, .14], [.5, .52], [.36, .68], [.3, .78], [.36, .86]], bottle: [[0, 0], [.36, 0], [.41, .08], [.41, .5], [.3, .62], [.14, .7], [.12, .95], [.16, 1]],
   slim: [[0, 0], [.22, 0], [.25, .1], [.21, .6], [.16, .86], [.21, 1]], carafe: [[0, 0], [.4, 0], [.47, .2], [.41, .5], [.2, .7], [.14, .9], [.19, 1]], round: [[0, 0], [.3, 0], [.5, .25], [.48, .46], [.25, .62], [.16, .76], [.21, .86]] };
-function vaseSvg(sh, P, fg, r) { const pr = VASES[sh.v], H = 54, W = 46, by = 117, cx = 50, top = pr[pr.length - 1], my = by - top[1] * H, mw = top[0] * W, sd = (sh.s || 1) * 101;
+function vaseSvg(sh, P, fg, r) { const vs = sh.sc || 1, pr = VASES[sh.v], H = 54 * vs, W = 46 * vs, by = 117, cx = 50, top = pr[pr.length - 1], my = by - top[1] * H, mw = top[0] * W, sd = (sh.s || 1) * 101;
   const G = (d, g) => `<path data-g="${g}" d="${d}" fill="${fg}"/>`, side = pr.map(([x, y]) => [cx + x * W, by - y * H]), other = pr.slice().reverse().map(([x, y]) => [cx - x * W, by - y * H]);
-  let c = G(ink([...other, ...side.slice(1)], 1.9, sd, { jit: .3, taper: .25 }), 'vase'), n = 0;
+  let c = G(ink([...other, ...side.slice(1)], vs < 1 ? 1.5 : 1.9, sd, { jit: vs < 1 ? .4 : .3, taper: .25 }), 'vase'), n = 0;
   /* stonek: od květu přes hrdlo až skoro na dno vázy (v obrysu je vidět) */
   const stem = (x2, y2, bend = 0) => { const bx = cx + (x2 - cx) * .22 + (r() - .5) * 6; c += G(ink([[bx, by - 3], [cx + (x2 - cx) * .12 + bend * .2, my + 2], [cx + (x2 - cx) * .55 + bend, (my + y2) / 2], [x2, y2]], 1.2, sd + ++n, { jit: .25, taper: .3 }), 'stem'); };
   const head = (d, g) => { c += G(d, g); };
   switch (sh.f) {
-    case 'balls': [[37, 32, 'h'], [52, 25], [63, 33]].forEach(([x, y, h], i) => { stem(x, y + 4); head(h ? pathT(['M', 0, .95, 'C', -1.7, -.15, -.7, -1.35, 0, -.42, 'C', .7, -1.35, 1.6, -.2, 0, .95, 'Z'], x, y, 4.4, -.15) : wcirc(x, y, 4.6, sd + i), 'f' + i); }); break;
-    case 'balls2': [[44, 18], [58, 27]].forEach(([x, y], i) => { stem(x, y + 4); head(wcirc(x, y, 5.2, sd + i), 'f' + i); }); break;
-    case 'balls3': [[46, 27], [56, 19]].forEach(([x, y], i) => { stem(x, y + 4); head(wcirc(x, y, 4.3, sd + i), 'f' + i); }); break;
+    case 'balls': [[38, 44, 'h'], [50, 36], [61, 46]].forEach(([x, y, h], i) => { stem(x, y + 4, (i - 1) * 3); head(h ? pathT(['M', 0, .95, 'C', -1.7, -.15, -.7, -1.35, 0, -.42, 'C', .7, -1.35, 1.6, -.2, 0, .95, 'Z'], x, y, 5, -.25) : wcirc(x, y, 5, sd + i, .1), 'f' + i); }); break;
+    case 'balls2': [[45, 22], [57, 31]].forEach(([x, y], i) => { stem(x, y + 4, i ? 4 : -3); head(wcirc(x, y, 5.6, sd + i, .1), 'f' + i); }); break;
+    case 'balls3': [[44, 36], [57, 28]].forEach(([x, y], i) => { stem(x, y + 4, i ? 3 : -2); head(wcirc(x, y, 5, sd + i, .1), 'f' + i); }); break;
     case 'puff': { const x = 50, y = 22; stem(x, y + 6); for (let i = 0; i < 26; i++) { const a = i / 26 * Math.PI * 2 + r() * .1, L = 7.5 + r() * 2; c += G(ink([[x + Math.cos(a) * 2, y + Math.sin(a) * 2], [x + Math.cos(a) * L, y + Math.sin(a) * L]], .55, sd + 40 + i, { jit: .1 }), 'f0') + G(wcirc(x + Math.cos(a) * (L + .8), y + Math.sin(a) * (L + .8), .9, i), 'f0'); } head(wcirc(x, y, 1.8, 3), 'f0'); break; }
     case 'sprigs': [[37, 31], [50, 20], [63, 28], [44, 40], [57, 41]].forEach(([x, y], i) => { stem(x, y + 3, (r() - .5) * 7); head(petalPath(x, y, 3.6, 5, r() * 6, 1, .45, .1), 'f' + i % 2); head(wcirc(x, y, .9, i), 'c'); }); break;
     case 'berries': [[41, 35, -5], [52, 25, 2], [61, 37, 6]].forEach(([x, y, b], k) => { stem(x, y + 5, b); for (let i = 0; i < 8; i++) { const a = r() * 6.3, rr = Math.sqrt(r()) * 4.5; c += G(ink([[x, y + 4], [x + Math.cos(a) * rr, y + Math.sin(a) * rr]], .5, sd + k * 9 + i, { jit: .05 }), 'stem'); head(wcirc(x + Math.cos(a) * rr, y + Math.sin(a) * rr, 1.5, k * 9 + i), 'f' + k); } }); break;
@@ -3296,31 +3298,49 @@ function shapeSvg(sh, fg, bg, fid = 'bsoft') {
     case 'swallows': return Array.from({ length: 11 }, (_, i) => { const a = i / 11 * Math.PI * 2, x = 50 + Math.cos(a) * 33, y = 62 + Math.sin(a) * 36; return P(pathT(SWALLOW, x, y, 7.5, a + Math.PI / 2 + .3)); }).join('');
     case 'wires': { let c = ''; const ys = [26, 46, 66, 86, 106]; ys.forEach((y0, k) => c += P(ink([[-3, y0], [30, y0 + 3.8], [70, y0 + 3.6], [103, y0 - 2]], .85, 4600 + k, { jit: .18, taper: 0 })));
       for (let i = 0; i < 10; i++) { const j = Math.floor(r() * 5), x = 12 + r() * 76, y = ys[j] + 5 * (1 - ((x - 50) / 52) ** 2) - (x / 104) * 2; c += P(pathT(PERCH, x, y - .4, 4.6, (r() - .5) * .2, r() < .5 ? -1 : 1)); } return c; }
-    case 'onebird': return P(pathT(BIRD(.05), 56, 50, 10, -.25));
+    case 'pin': { const x = 54, y = 52, rt = -.55, T = (u, v) => [x + u * Math.cos(rt) - v * Math.sin(rt), y + u * Math.sin(rt) + v * Math.cos(rt)];
+      return P(wob([[-4.2, -9], [0, -10.8], [4.2, -9], [3.8, -5.2], [2, -3.6], [2.6, -.6], [5.6, .6], [6, 2.8], [-6, 2.8], [-5.6, .6], [-2.6, -.6], [-2, -3.6], [-3.8, -5.2]].map(([u, v]) => T(u, v)), 6500, .3, .12))
+        + P(ink([T(0, 2.6), T(.1, 10), T(0, 17)], 1.2, 6501, { jit: .05, taper: .8 })); }
     case 'orchid': { const pts = [[52, 126], [50, 104], [47, 84], [46, 62], [48, 44], [52, 30], [57, 20]]; let c = P(ink(pts, 2, 4800, { jit: .3, taper: .35 }));
       [[47, 90, 10.5, -1], [46, 74, 11, 1], [47, 58, 10, -1], [50, 44, 8.5, 1], [53, 33, 6.5, -1]].forEach(([x, y, R, sd]) => c += `<path d="${petalPath(x + sd * R * .7, y, R, 5, sd * .5, .9, .42, .08)}${circ(x + sd * R * .7, y, R * .18)}" fill="${fg}" fill-rule="evenodd"/>`);
-      c += P(`M57 23 q5 -2 5 -7 q-5 1 -5 7Z`) + P(circ(59, 13, 2.6)); return c; }
+      c += P(ink([[52, 30], [57, 22], [62, 17], [64, 12]], 1.4, 4801, { jit: .2, taper: .5 }));
+      [[56.5, 25, 2.6, .5], [61, 18.5, 2.1, .9], [63.8, 12.5, 1.5, 1.3]].forEach(([x, y, R, a], i) => c += P(wob([[x - R * .55, y], [x, y - R * 1.15], [x + R * .55, y], [x, y + R * .9]].map(([u, v]) => [x + (u - x) * Math.cos(a) - (v - y) * Math.sin(a), y + (u - x) * Math.sin(a) + (v - y) * Math.cos(a)]), 4900 + i, .2, .22))); return c; }
     case 'stems': { let c = ''; [[16, 'p', 30], [30, 'f', 52], [44, 'p', 36], [62, 'p', 24], [76, 'f', 48], [88, 'f', 38]].forEach(([x, t, y]) => { const tx = x + (r() - .5) * 6;
       c += `<path data-g="s" d="${ink([[x, 128], [x + (tx - x) * .5 + (r() - .5) * 5, (128 + y) / 2], [tx, y]], 1.1, x * 3, { jit: .3, taper: .2 })}" fill="${fg}"/>`;
       if (t === 'f') c += P(petalPath(tx, y - 2, 4.6, 11, r() * 3, 1.5, .4, .12)) + P(wcirc(tx, y - 2, 1.2, x));
       else { for (let i = 0; i < 16; i++) { const a = i / 16 * Math.PI * 2; c += P(ink([[tx + Math.cos(a) * 1.4, y - 4 + Math.sin(a) * 1.4], [tx + Math.cos(a) * 4.8, y - 4 + Math.sin(a) * 4.8]], .45, x + i, { jit: .08 })); } c += P(wcirc(tx, y - 4, 1.5, x)); } }); return c; }
     case 'poppies': return [[30, 40, 8.5], [55, 30, 9.5], [76, 46, 8], [20, 66, 7], [44, 58, 8.5], [66, 66, 7.5], [84, 72, 6.5], [33, 84, 7], [57, 84, 7.5], [16, 92, 6]].map(([x, y, R], i) =>
       P(ink([[x, y + R * .3], [x + (r() - .5) * 5, (y + 128) / 2], [x + (r() - .5) * 8, 129]], .8, 5600 + i, { jit: .25, taper: .1 })) + `<path d="${petalPath(x, y, R, 5, r() * 6, .5, .3, .16)}${wcirc(x, y + R * .1, R * .16, i)}" fill="${fg}" fill-rule="evenodd"/>`).join('');
-    case 'tulips': { let c = ''; [[-1.05, 34], [-.62, 26], [-.3, 40], [.08, 22], [.42, 34], [.78, 28]].forEach(([a, len], i) => { const ang = -Math.PI / 2 + a * .45, x = 50 + Math.cos(ang) * (46 + len * .5) * 1.05, y = 98 + Math.sin(ang) * (46 + len * .5);
-        c += P(ink([[50 + (x - 50) * .05, 108], [50 + (x - 50) * .45, 100 + (y - 100) * .5], [x, y + 6]], 1.9, 5100 + i, { jit: .3, taper: .3 })) + P(tulipPath(x, y, 11.5, a * .3)); });
-      [[-1, 30], [1, 26], [-.6, 22], [.6, 24]].forEach(([sd, L]) => c += P(pathT(['M', 0, 0, 'Q', sd * .45, -.4, sd * .9, -1, 'Q', sd * .2, -.55, 0, 0, 'Z'], 50, 110, L * 1.5))); return c; }
-    case 'bouquet': { let c = ''; [[36, 34], [50, 26], [64, 32], [42, 46], [58, 46], [50, 38], [30, 48], [70, 46]].forEach(([x, y], i) => { c += P(ink([[x, y + 3], [50 + (x - 50) * .45, (y + 76) / 2], [50 + (x - 50) * .1, 86]], 1, 5200 + i, { jit: .2, taper: .2 })); c += `<path d="${petalPath(x, y, 6.2, 6 + (i % 3), r() * 6, 1.2, .45)}${circ(x, y, 1.5)}" fill="${fg}" fill-rule="evenodd"/>`; });
-      [[-1, 0], [1, .3]].forEach(([sd]) => c += P(pathT(['M', 0, 0, 'Q', sd * .5, -.5, sd, -.6, 'Q', sd * .45, -.15, 0, 0, 'Z'], 50, 70, 18)));
-      const H2 = (pts, k) => P(ink(pts, 1.5, 5300 + k, { jit: .25, taper: .3 }));
-      c += H2([[44, 74], [41.5, 79], [42, 86], [45, 92]], 1) + H2([[44.5, 74], [52, 72.5], [60, 74.5], [61, 78]], 2) + H2([[43.5, 78.5], [52, 77.5], [61, 79.5], [60.5, 82.5]], 3) + H2([[43, 83], [52, 82.5], [60.5, 84], [59.5, 87.5]], 4)
-        + H2([[44, 87.5], [52, 87.5], [59.5, 89], [57, 92]], 5) + H2([[61, 78], [64, 83], [61.5, 87]], 6) + H2([[45, 92], [42.5, 110], [40.5, 128]], 7) + H2([[57, 92], [59.5, 110], [62, 128]], 8); return c; }
+    case 'tulips': { let c = ''; const T = [[33, 40, -.42, 11], [46, 31, -.12, 12], [58, 36, .18, 11.5], [69, 47, .5, 10.5], [52, 49, .05, 10]];
+      T.forEach(([x, y, rt, s0], i) => { const bx = 50 + (x - 50) * .12, mx = (x + bx) / 2 + (x - 50) * .35 + (i % 2 ? 3 : -3);
+        c += P(ink([[bx, 116], [mx, (y + 116) / 2 + 6], [x, y + s0 * .5]], 1.7, 5100 + i, { jit: .35, taper: .25 }));
+        const cup = [[-.48, -.1], [-.52, .32], [-.3, .58], [0, .64], [.32, .57], [.52, .3], [.5, -.12], [.36, -.62], [.18, -.2], [.02, -.74], [-.16, -.22], [-.36, -.6]];
+        c += P(wob(cup.map(([u, v]) => [x + (u * Math.cos(rt) - v * Math.sin(rt)) * s0, y + (u * Math.sin(rt) + v * Math.cos(rt)) * s0]), 5150 + i, .7, .1)); });
+      [[-1, 40, .55, 6], [1, 36, .5, 5.5], [-.45, 30, .8, 4.5], [.6, 28, .85, 4]].forEach(([sd, L, k, Wd], i) => { const tip = [50 + sd * L * k, 116 - L], mid = [50 + sd * L * .55, 116 - L * .45];
+        c += P(wob([[50, 117], [mid[0] - sd * Wd * .2, mid[1] - Wd * .6], [tip[0], tip[1]], [mid[0] + sd * Wd * .9, mid[1] + Wd * .5], [50 + sd * 3, 117]], 5180 + i, .8, .16)); }); return c; }
+    case 'bouquet': { let c = ''; const sd0 = 5200, fl = [[38, 36, 'daisy', 7], [52, 28, 'round', 7.5], [64, 37, 'daisy', 6], [45, 47, 'bell', 6.5], [59, 50, 'round', 5.5], [32, 50, 'bud', 4], [70, 51, 'bud', 3.6], [50, 40, 'small', 4.2], [41, 26, 'small', 3.4]];
+      fl.forEach(([x, y, t, R], i) => { c += P(ink([[x, y + R * .5], [50 + (x - 50) * .5 + (i % 2 ? 2 : -2), (y + 78) / 2], [50 + (x - 50) * .08, 84]], .95, sd0 + i, { jit: .25, taper: .2 }));
+        if (t === 'daisy') c += `<path d="${petalPath(x, y, R, 11, i, 2.2, .55, .12)}${wcirc(x, y, R * .28, i)}" fill="${fg}" fill-rule="evenodd"/>`;
+        else if (t === 'round') c += `<path d="${petalPath(x, y, R, 5, i * 1.3, .7, .35, .14)}${wcirc(x, y, R * .22, i)}" fill="${fg}" fill-rule="evenodd"/>`;
+        else if (t === 'bell') c += P(wob([[-.48, -.1], [-.52, .3], [-.3, .58], [0, .64], [.32, .57], [.52, .3], [.5, -.12], [.36, -.62], [.18, -.2], [.02, -.74], [-.16, -.22], [-.36, -.6]].map(([u, v]) => [x + u * R * 1.5, y + v * R * 1.5]), i, .5, .1));
+        else if (t === 'bud') c += P(wob([[x, y - R * 1.3], [x + R * .7, y], [x, y + R * .6], [x - R * .7, y]], sd0 + i, .3, .2));
+        else c += P(petalPath(x, y, R, 5, i, 1, .45, .12)); });
+      [[-1, 64, 40, 9], [1, 64, 38, 8], [-.7, 58, 28, 6]].forEach(([s1, y0, L, Wd], i) => c += P(wob([[50 + s1 * 2, y0 + 12], [50 + s1 * L * .45, y0 + 2 - Wd * .3], [50 + s1 * L * .62, y0 - 6], [50 + s1 * L * .4, y0 + 4 + Wd * .4]], 5260 + i, .6, .18)));
+      const H2 = (pts, k, w = 1.5) => P(ink(pts, w, 5300 + k, { jit: .3, taper: .3 }));
+      /* pěst: obrys, tři prsty, palec přes stonky, zápěstí */
+      c += H2([[42.5, 80], [40, 85.5], [40.5, 92], [44, 97], [51, 98.5], [57.5, 96.5], [60.5, 91]], 1, 1.7) + H2([[42.5, 80], [48, 78.5], [55, 79.5], [60, 82], [61.5, 86.5], [60.5, 91]], 2, 1.7)
+        + H2([[41.5, 86], [47, 85], [53, 86], [58, 87.5]], 3, 1.2) + H2([[41.2, 91], [47, 90.5], [53, 91.5], [57.5, 92.5]], 4, 1.2)
+        + H2([[44, 80], [47.5, 82.5], [53.5, 83], [58, 81]], 5, 1.3) + H2([[45, 98], [43.5, 112], [42, 128]], 7) + H2([[57, 97], [59, 112], [61, 128]], 8); return c; }
     case 'vase': return vaseSvg(sh, P, fg, r);
     case 'constellation': { const st = [[14, 30], [35, 36], [44, 49], [57, 62], [55, 79], [77, 91], [87, 75]]; let c = ''; [[0, 1], [1, 2], [2, 3], [3, 4], [4, 5], [5, 6], [6, 3]].forEach(([a, b], k) => c += P(ink([st[a], st[b]], .8, 6100 + k, { jit: .12, taper: .1 })));
       st.forEach(([x, y], i) => c += P(starPath(x, y, i === 3 ? 3.4 : 2.8, 5, .42, .1))); return c; }
     case 'figures': return `<g transform="translate(4 20.2) scale(.144) translate(0 587) scale(.1 -.1)"><path d="${FIG_D}" fill="${fg}"/></g>`; // postavy: Honzovo SVG (tetovani-.svg)
-    case 'player': { const tri = (x, y, s, d) => `M${f2(x - s * d)} ${f2(y - s)}L${f2(x + s * d)} ${y}L${f2(x - s * d)} ${f2(y + s)}Z`;
-      return P(tri(15, 62, 7, -1) + tri(26, 62, 7, -1)) + P(`M43 52.5h5.5v19h-5.5zM51.5 52.5h5.5v19h-5.5z`) + P(tri(74, 62, 7, 1) + tri(85, 62, 7, 1)); }
-    case 'bang': return [[36, 54, -.22, 1], [62, 58, .12, 1.15]].map(([x, y, rt, k]) => P(pathT(['M', -.17, -.62, 'L', .17, -.62, 'L', .09, .25, 'L', -.09, .25, 'Z'], x, y, 44 * k, rt)) + P(pathT(['M', -.09, .36, 'L', .09, .36, 'L', .09, .5, 'L', -.09, .5, 'Z'], x, y, 44 * k, rt))).join('');
+    case 'player': { const tri = (x, y, s, d, k) => wob([[x - s * d, y - s], [x + s * d * .95, y], [x - s * d, y + s]], 6300 + k, .35, .05);
+      return P(tri(26, 62, 4.6, -1, 1) + tri(33, 62, 4.6, -1, 2)) + P(wob([[44.5, 56.5], [48, 56.3], [48.2, 67.6], [44.7, 67.4]], 6310, .3, .06) + wob([[52, 56.4], [55.5, 56.6], [55.3, 67.5], [51.8, 67.6]], 6311, .3, .06)) + P(tri(67, 62, 4.6, 1, 3) + tri(74, 62, 4.6, 1, 4)); }
+    case 'bang': { let c = ''; [[37, 50, -.32, 1, 1], [63, 55, .18, 1.2, 2]].forEach(([x, y, rt, k, i]) => { const T = (u, v) => [x + (u * Math.cos(rt) - v * Math.sin(rt)) * k, y + (u * Math.sin(rt) + v * Math.cos(rt)) * k];
+        c += P(wob([[-6.5, -27], [-1, -29.5], [6.5, -27.5], [5.5, -10], [2.8, 10], [0, 12.5], [-3, 10], [-5, -10]].map(([u, v]) => T(u, v)), 6400 + i, .9, .16));
+        c += P(wob([[-4, 17], [0, 15.5], [4.2, 17.5], [4, 23], [0, 25], [-4.2, 23]].map(([u, v]) => T(u, v)), 6410 + i, .6, .2)); });
+      [[22, 26, -2.5], [50, 18, -1.6], [78, 28, -.6]].forEach(([x, y, a], i) => c += P(ink([[x, y], [x + Math.cos(a) * 7, y + Math.sin(a) * 7]], 1.6, 6420 + i, { jit: .1, taper: .7 }))); return c; }
     case 'bolts': return [-160, -125, -90, -55, -20].map(dg => { const a = dg * Math.PI / 180; return P(boltPath(50 + Math.cos(a) * 36, 80 + Math.sin(a) * 38, 30, a + Math.PI / 2)); }).join('');
     case 'bigstars': return scatter(r, 20, 1.05, 4.5, 10).map(([x, y, R]) => P(starPath(x, y, R, 5, .42, r() * 6))).join('');
     case 'lattice': { let c = ''; const R = 12.7, k = .8; for (let y = 0; y <= 125.1; y += 25) for (let x = 0; x <= 100.1; x += 25) { let d = ''; // čtyřcípé hvězdy, mezi nimi zaoblené čtverce
@@ -3408,7 +3428,7 @@ function syncBlobCtl() {
 }
 const SCAT = { zaklad: ['blob', 'splat', 'soft', 'stamp', 'snake', 'spiral', 'clouds', 'hearts'], hvezdy: ['star', 'sparkle', 'stars', 'sparkles', 'chain', 'beacons', 'stars3', 'bigstars', 'lattice', 'rays', 'blobstars', 'constellation', 'shoot'],
   kytky: ['flower', 'flowers', 'daisygrid', 'halfdaisy', 'outlineflowers', 'daisyfield', 'blossoms', 'leaf', 'coral', 'orchid', 'stems', 'poppies', 'tulips', 'bouquet', 'vase'],
-  ptaci: ['flock', 'gulls', 'birds', 'birdcloud', 'swallows', 'wires', 'onebird'], vzory: ['dots', 'waves', 'loops', 'stars', 'flowers', 'sparkles', 'lattice', 'hearts', 'clouds', 'bigstars', 'daisyfield'], ikony: ['player', 'bang', 'bolts', 'figures'], moje: ['draw', 'img'] };
+  ptaci: ['flock', 'gulls', 'birds', 'birdcloud', 'swallows', 'wires'], vzory: ['dots', 'waves', 'loops', 'stars', 'flowers', 'sparkles', 'lattice', 'hearts', 'clouds', 'bigstars', 'daisyfield'], ikony: ['player', 'bang', 'bolts', 'figures', 'pin'], moje: ['draw', 'img'] };
 const SCATN = [['vse', 'VŠE'], ['zaklad', 'ZÁKLAD'], ['hvezdy', 'HVĚZDY'], ['kytky', 'KYTKY'], ['ptaci', 'PTÁCI'], ['vzory', 'VZORY'], ['ikony', 'IKONY'], ['moje', 'MOJE']];
 function renderShapes() {
   B.cat = B.cat || store.get('blobCat', 'vse');
